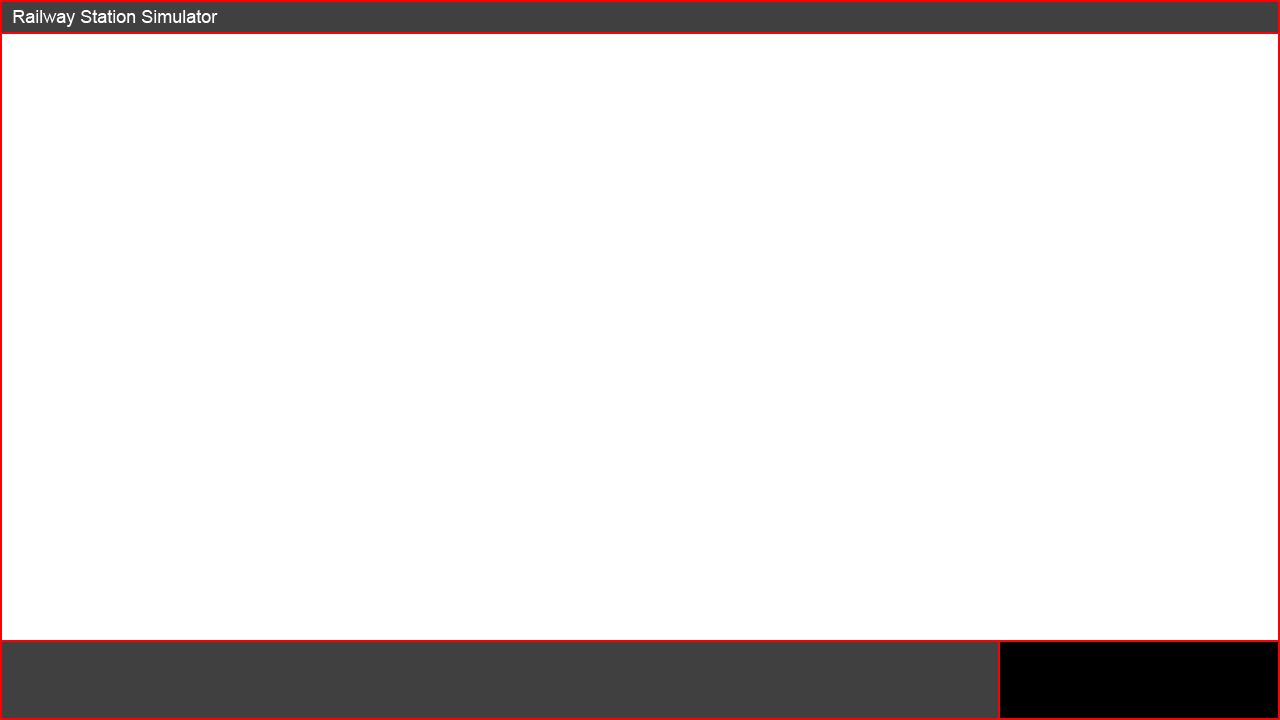
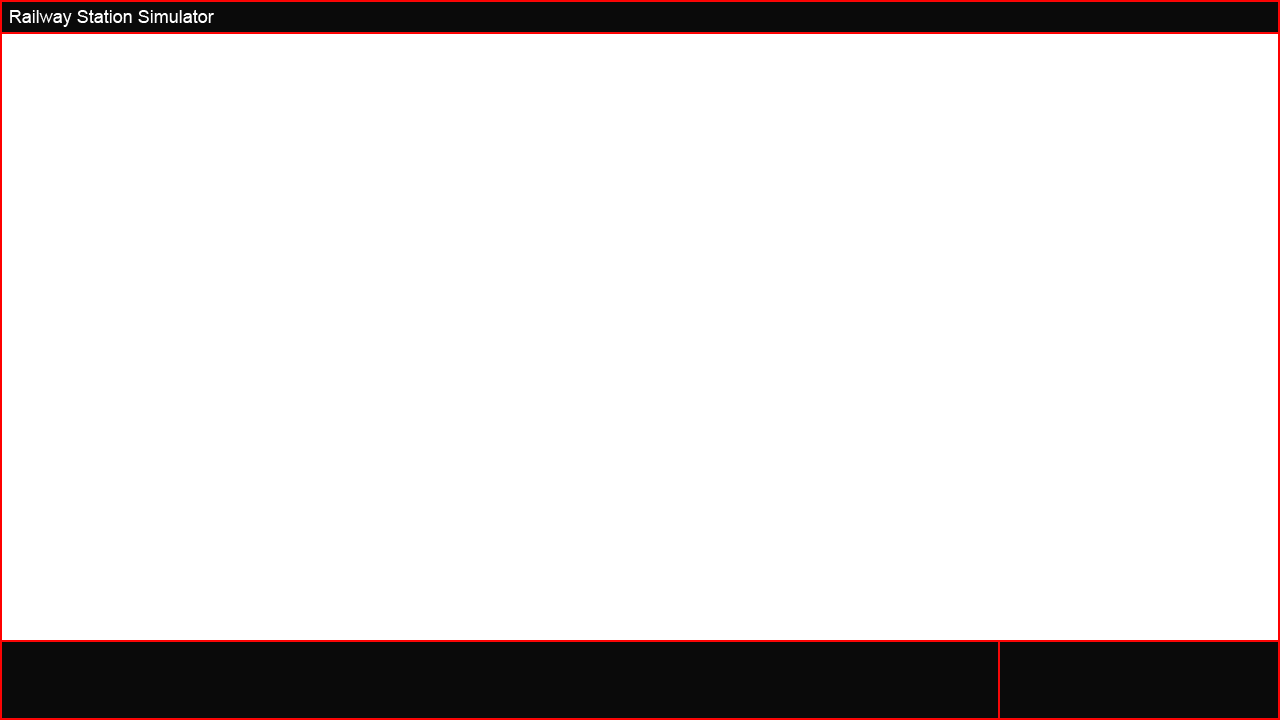
refactoring; artwork; added ingame money

Changed region(s): [[0.0, 0.8861, 0.7812, 1.0], [0.0, 0.0, 1.0, 0.0611]]

diff --git a/button.py b/button.py
@@ -5,12 +5,37 @@ import pyglet
 from game_object import GameObject
 
 
-def _allowed_to_be_drawn(fn):
-    def _handle_mouse_if_allowed_to_be_drawn(*args, **kwargs):
-        if args[0].allowed_to_be_drawn:
+def _button_is_visible(fn):
+    def _handle_mouse_if_is_visible(*args, **kwargs):
+        if args[0].is_visible:
             fn(*args, **kwargs)
 
-    return _handle_mouse_if_allowed_to_be_drawn
+    return _handle_mouse_if_is_visible
+
+
+def _left_button(fn):
+    def _handle_mouse_if_left_button_was_clicked(*args, **kwargs):
+        if args[3] == pyglet.window.mouse.LEFT:
+            fn(*args, **kwargs)
+
+    return _handle_mouse_if_left_button_was_clicked
+
+
+def _cursor_is_over_the_button(fn):
+    def _handle_if_cursor_is_over_the_button(*args, **kwargs):
+        if args[1] in range(args[0].position[0] + 2, args[0].position[0] + args[0].button_size[0] - 2) \
+                and args[2] in range(args[0].position[1] + 2, args[0].position[1] + args[0].button_size[1] - 2):
+            fn(*args, **kwargs)
+
+    return _handle_if_cursor_is_over_the_button
+
+
+def _button_is_pressed(fn):
+    def _handle_if_button_is_pressed(*args, **kwargs):
+        if args[0].state == 'pressed':
+            fn(*args, **kwargs)
+
+    return _handle_if_button_is_pressed
 
 
 class Button(GameObject):
@@ -21,8 +46,8 @@ class Button(GameObject):
         self.logger.debug('------- START INIT -------')
         self.draw_only_if_game_paused = draw_only_if_game_paused
         self.logger.debug('draw only if game paused set: {}'.format(self.draw_only_if_game_paused))
-        self.allowed_to_be_drawn = False
-        self.logger.debug('allowed_to_be_drawn set: {}'.format(self.allowed_to_be_drawn))
+        self.is_visible = False
+        self.logger.debug('allowed_to_be_drawn set: {}'.format(self.is_visible))
         self.state = 'normal'
         self.logger.debug('state set: {}'.format(self.state))
         self.position = position
@@ -36,6 +61,8 @@ class Button(GameObject):
         self.on_click = on_click
         self.on_click_actual = self.on_click[0]
         self.logger.debug('on click action set: {}'.format(self.on_click_actual))
+        pyglet.gl.glEnable(pyglet.gl.GL_BLEND)
+        pyglet.gl.glBlendFunc(pyglet.gl.GL_SRC_ALPHA, pyglet.gl.GL_ONE_MINUS_SRC_ALPHA)
         self.vertex_list \
             = batch.add(4, pyglet.gl.GL_QUADS, button_group,
                         ('v2i/static', (self.position[0],
@@ -46,7 +73,7 @@ class Button(GameObject):
                                         self.position[1] + self.button_size[1] - 1,
                                         self.position[0],
                                         self.position[1] + self.button_size[1] - 1)),
-                        ('c4B', (0, 0, 0, 255, 0, 0, 0, 255, 0, 0, 0, 255, 0, 0, 0, 255))
+                        ('c4B', (0, 0, 0, 0, 0, 0, 0, 0, 0, 0, 0, 0, 0, 0, 0, 0))
                         )
         self.border_sprite_image = pyglet.image.load('img/button_border_{}_{}.png'
                                                      .format(self.button_size[0], self.button_size[1]))
@@ -70,7 +97,7 @@ class Button(GameObject):
     def update(self, game_paused):
         self.logger.debug('------- START UPDATING -------')
         if not game_paused and self.draw_only_if_game_paused:
-            self.allowed_to_be_drawn = False
+            self.is_visible = False
             if self.vertex_list is not None:
                 self.vertex_list.delete()
                 self.vertex_list = None
@@ -83,7 +110,7 @@ class Button(GameObject):
             self.logger.debug('game is not paused and this button is drawn only if game paused')
             self.logger.debug('so hide the button')
         else:
-            self.allowed_to_be_drawn = True
+            self.is_visible = True
             if self.vertex_list is None:
                 self.vertex_list \
                     = self.batch.add(4, pyglet.gl.GL_QUADS, self.button_group,
@@ -96,7 +123,7 @@ class Button(GameObject):
                                        self.position[1] + self.button_size[1] - 1,
                                        self.position[0],
                                        self.position[1] + self.button_size[1] - 1)),
-                                     ('c4B', (0, 0, 0, 255, 0, 0, 0, 255, 0, 0, 0, 255, 0, 0, 0, 255))
+                                     ('c4B', (0, 0, 0, 0, 0, 0, 0, 0, 0, 0, 0, 0, 0, 0, 0, 0))
                                      )
 
             self.border_sprite.visible = True
@@ -116,55 +143,55 @@ class Button(GameObject):
         self.logger.debug('------- END UPDATING -------')
         self.logger.info('button updated')
 
-    @_allowed_to_be_drawn
+    @_button_is_visible
     def handle_mouse_motion(self, x, y, dx, dy):
         if x in range(self.position[0] + 2, self.position[0] + self.button_size[0] - 2) \
                 and y in range(self.position[1] + 2, self.position[1] + self.button_size[1] - 2):
             if self.state != 'pressed':
                 self.state = 'hover'
-                self.vertex_list.colors = (127, 0, 0, 255, 127, 0, 0, 255, 127, 0, 0, 255, 127, 0, 0, 255)
+                self.vertex_list.colors = (127, 0, 0, 127, 127, 0, 0, 127, 127, 0, 0, 127, 127, 0, 0, 127)
                 self.logger.info('cursor is on the button')
         else:
             if self.state != 'normal':
                 self.state = 'normal'
-                self.vertex_list.colors = (0, 0, 0, 255, 0, 0, 0, 255, 0, 0, 0, 255, 0, 0, 0, 255)
+                self.vertex_list.colors = (0, 0, 0, 0, 0, 0, 0, 0, 0, 0, 0, 0, 0, 0, 0, 0)
                 self.logger.debug('cursor is not on the button')
 
-    @_allowed_to_be_drawn
+    @_button_is_visible
+    @_cursor_is_over_the_button
+    @_left_button
     def handle_mouse_press(self, x, y, button, modifiers):
-        if x in range(self.position[0] + 2, self.position[0] + self.button_size[0] - 2) \
-                and y in range(self.position[1] + 2, self.position[1] + self.button_size[1] - 2) \
-                and button == pyglet.window.mouse.LEFT:
-            self.state = 'pressed'
-            self.vertex_list.colors = (191, 0, 0, 255, 191, 0, 0, 255, 191, 0, 0, 255, 191, 0, 0, 255)
-            self.logger.info('cursor is on the button and user holds mouse button')
+        self.state = 'pressed'
+        self.vertex_list.colors = (191, 0, 0, 127, 191, 0, 0, 127, 191, 0, 0, 127, 191, 0, 0, 127)
+        self.logger.info('cursor is on the button and user holds mouse button')
 
-    @_allowed_to_be_drawn
+    @_button_is_visible
+    @_button_is_pressed
+    @_left_button
     def handle_mouse_release(self, x, y, button, modifiers):
-        if self.state == 'pressed' and button == pyglet.window.mouse.LEFT:
-            self.state = 'hover'
-            self.vertex_list.colors = (127, 0, 0, 255, 127, 0, 0, 255, 127, 0, 0, 255, 127, 0, 0, 255)
-            self.logger.info('cursor is on the button and user released mouse button')
-            self.logger.info('start onclick action')
-            self.on_click_actual(self)
-            if self.on_click_actual == self.on_click[0] and len(self.on_click) == 2:
-                self.on_click_actual = self.on_click[1]
-                self.logger.info('button is switched to second action')
-            else:
-                self.on_click_actual = self.on_click[0]
-                self.logger.debug('button has only 1 action, so it remains the same')
+        self.state = 'hover'
+        self.vertex_list.colors = (127, 0, 0, 127, 127, 0, 0, 127, 127, 0, 0, 127, 127, 0, 0, 127)
+        self.logger.info('cursor is on the button and user released mouse button')
+        self.logger.info('start onclick action')
+        self.on_click_actual(self)
+        if self.on_click_actual == self.on_click[0] and len(self.on_click) == 2:
+            self.on_click_actual = self.on_click[1]
+            self.logger.info('button is switched to second action')
+        else:
+            self.on_click_actual = self.on_click[0]
+            self.logger.debug('button has only 1 action, so it remains the same')
 
-            if self.text_object_actual_text == self.text[0] and len(self.text) == 2:
-                self.text_object_actual_text = self.text[1]
-                self.text_object_actual.text = self.text[1]
-                self.logger.info('button is switched to second text')
-            else:
-                self.text_object_actual_text = self.text[0]
-                self.text_object_actual.text = self.text[0]
-                self.logger.debug('button has only 1 text, so it remains the same')
+        if self.text_object_actual_text == self.text[0] and len(self.text) == 2:
+            self.text_object_actual_text = self.text[1]
+            self.text_object_actual.text = self.text[1]
+            self.logger.info('button is switched to second text')
+        else:
+            self.text_object_actual_text = self.text[0]
+            self.text_object_actual.text = self.text[0]
+            self.logger.debug('button has only 1 text, so it remains the same')
 
-    @_allowed_to_be_drawn
+    @_button_is_visible
     def handle_mouse_leave(self, x, y):
         self.state = 'normal'
-        self.vertex_list.colors = (0, 0, 0, 255, 0, 0, 0, 255, 0, 0, 0, 255, 0, 0, 0, 255)
+        self.vertex_list.colors = (0, 0, 0, 0, 0, 0, 0, 0, 0, 0, 0, 0, 0, 0, 0, 0)
         self.logger.debug('cursor is not on the button')

diff --git a/game_progress.py b/game_progress.py
@@ -9,7 +9,7 @@ from game_object import GameObject
 
 def _maximum_level_not_reached(fn):
     def _add_exp_if_max_level_not_reached(*args, **kwargs):
-        if args[0].level < 100:
+        if args[0].level < args[0].c.maximum_level:
             fn(*args, **kwargs)
 
     return _add_exp_if_max_level_not_reached
@@ -30,13 +30,15 @@ class GameProgress(GameObject):
         self.config = configparser.RawConfigParser()
         self.unlocked_tracks = 4
         self.level = 0
-        self.exp = 0
-        self.accumulated_exp = 0
+        self.exp = 0.0
+        self.accumulated_exp = 0.0
+        self.money = 0.0
         self.percent = 0
         self.supported_carts = None
         self.main_map = main_map
         self.mini_map = mini_map
         self.tracks = None
+        pyglet.resource.add_font('perfo-bold.ttf')
         self.progress_bar_inactive_image = pyglet.image.load('img/progress_bar_inactive.png')
         self.progress_bar_inactive = pyglet.sprite.Sprite(self.progress_bar_inactive_image,
                                                           x=10, y=10, batch=batch, group=inactive_group)
@@ -45,9 +47,12 @@ class GameProgress(GameObject):
                                                         x=10, y=10, batch=batch, group=active_group)
         self.progress_bar_active.image = self.progress_bar_active_image.get_region(0, 0, 1, 10)
         self.read_state()
-        self.level_text = pyglet.text.Label('Level {}'.format(self.level), font_name=self.c.font_name,
-                                            font_size=self.c.level_font_size, x=110, y=40, anchor_x='center',
-                                            anchor_y='center', batch=batch, group=active_group)
+        self.level_text = pyglet.text.Label('LEVEL {}'.format(self.level), font_name='Perfo', bold=True,
+                                            font_size=self.c.level_font_size, x=110, y=40,
+                                            anchor_x='center', anchor_y='center', batch=batch, group=active_group)
+        self.money_text = pyglet.text.Label('{0:0>9} ¤'.format(int(self.money)), font_name='Perfo', bold=True,
+                                            color=(0, 192, 0, 255), font_size=self.c.level_font_size, x=360, y=40,
+                                            anchor_x='center', anchor_y='center', batch=batch, group=active_group)
 
     def read_state(self):
         if os.path.exists('user_cfg/game_progress.ini'):
@@ -61,6 +66,7 @@ class GameProgress(GameObject):
         self.level = self.config['user_data'].getint('level')
         self.exp = self.config['user_data'].getfloat('exp')
         self.accumulated_exp = self.config['user_data'].getfloat('accumulated_exp')
+        self.money = self.config['user_data'].getfloat('money')
         supported_carts_parsed = self.config['user_data']['supported_carts'].split(',')
         self.supported_carts = (int(supported_carts_parsed[0]), int(supported_carts_parsed[1]))
         self.update_exp_progress_sprite()
@@ -70,6 +76,7 @@ class GameProgress(GameObject):
         self.config['user_data']['level'] = str(self.level)
         self.config['user_data']['exp'] = str(self.exp)
         self.config['user_data']['accumulated_exp'] = str(self.accumulated_exp)
+        self.config['user_data']['money'] = str(self.money)
         self.config['user_data']['supported_carts'] = str(self.supported_carts[0]) + ',' + str(self.supported_carts[1])
 
         with open('user_cfg/game_progress.ini', 'w') as configfile:
@@ -88,19 +95,23 @@ class GameProgress(GameObject):
         self.accumulated_exp += exp
         self.update_exp_progress_sprite()
 
+    def add_money(self, money):
+        self.money += money
+        self.money_text.text = '{0:0>9} ¤'.format(int(self.money))
+
     @_maximum_level_not_reached
     @_level_up
     def update(self, game_paused):
         self.exp = self.accumulated_exp - self.c.accumulated_player_progress[self.level]
         self.level += 1
-        if self.level == 100:
+        if self.level == self.c.maximum_level:
             self.exp = 0.0
 
-        self.level_text.text = 'Level {}'.format(self.level)
+        self.level_text.text = 'LEVEL {}'.format(self.level)
         self.update_exp_progress_sprite()
 
     def update_exp_progress_sprite(self):
-        if self.level < 100:
+        if self.level < self.c.maximum_level:
             self.percent = int(self.exp / self.c.player_progress[self.level] * 100)
             if self.percent > 100:
                 self.percent = 100

diff --git a/game_config.py b/game_config.py
@@ -67,6 +67,7 @@ class GameConfig:
         self.pass_through_priority_tracks = ((2, 1), (1, 2))
         self.train_creation_timeout = (0, 0, 0, 0)
 
+        self.maximum_level = 100
         self.accumulated_player_progress = (0.0, 55.0, 275.0, 770.0, 1650.0, 3050.0, 5060.0, 7825.0, 11465.0, 16100.0,
                                             21850.0, 28890.0, 37290.0, 47235.0, 58855.0, 72355.0, 87795.0, 105390.0,
                                             125280.0, 147605.0, 172605.0, 200430.0, 231230.0, 265270.0, 302710.0,
@@ -94,6 +95,28 @@ class GameConfig:
                                 3875270.0, 4350544.0, 4876697.0, 5457952.0, 6102480.0, 6813012.0, 7598978.0, 8464893.0,
                                 9418742.0, 10470584.0, 11688300.0, 13394199.0, 14933072.0, 16613613.0, 18447312.0,
                                 20448750.0, 22631232.0, 25006212.0, 27596408.0, 30412503.0, 0.0)
+
+        self.frame_per_cart = (0, 24, 25, 26, 27, 28, 29, 30, 31, 32, 33, 35, 37, 39, 41, 43, 45, 47, 49, 51, 53, 56,
+                               59, 62, 65, 68, 71, 74, 77, 80, 83, 87, 91, 95, 99, 103, 107, 111, 115, 119, 123, 128,
+                               133, 138, 143, 148, 153, 158, 163, 168, 173, 179, 185, 191, 197, 203, 209, 215, 221, 227,
+                               233, 240, 247, 254, 261, 268, 275, 282, 289, 296, 303, 312, 321, 330, 339, 348, 357, 366,
+                               375, 384, 393, 406, 419, 432, 445, 458, 471, 484, 497, 510, 523, 542, 561, 580, 599, 618,
+                               637, 656, 675, 694, 720)
+        self.exp_per_cart = (0.0, 0.24, 0.25, 0.26, 0.27, 0.28, 0.29, 0.3, 0.31, 0.32, 0.33, 0.35, 0.37, 0.39, 0.41,
+                             0.43, 0.45, 0.47, 0.49, 0.51, 0.53, 0.56, 0.59, 0.62, 0.65, 0.68, 0.71, 0.74, 0.77, 0.8,
+                             0.83, 0.87, 0.91, 0.95, 0.99, 1.03, 1.07, 1.11, 1.15, 1.19, 1.23, 1.28, 1.33, 1.38, 1.43,
+                             1.48, 1.53, 1.58, 1.63, 1.68, 1.73, 1.79, 1.85, 1.91, 1.97, 2.03, 2.09, 2.15, 2.21, 2.27,
+                             2.33, 2.4, 2.47, 2.54, 2.61, 2.68, 2.75, 2.82, 2.89, 2.96, 3.03, 3.12, 3.21, 3.3, 3.39,
+                             3.48, 3.57, 3.66, 3.75, 3.84, 3.93, 4.06, 4.19, 4.32, 4.45, 4.58, 4.71, 4.84, 4.97, 5.1,
+                             5.23, 5.42, 5.61, 5.8, 5.99, 6.18, 6.37, 6.56, 6.75, 6.94, 7.2)
+        self.money_per_cart = (0.0, 0.12, 0.125, 0.13, 0.135, 0.14, 0.145, 0.15, 0.155, 0.16, 0.165, 0.175, 0.185,
+                               0.195, 0.205, 0.215, 0.225, 0.235, 0.245, 0.255, 0.265, 0.28, 0.295, 0.31, 0.325, 0.34,
+                               0.355, 0.37, 0.385, 0.4, 0.415, 0.435, 0.455, 0.475, 0.495, 0.515, 0.535, 0.555, 0.575,
+                               0.595, 0.615, 0.64, 0.665, 0.69, 0.715, 0.74, 0.765, 0.79, 0.815, 0.84, 0.865, 0.895,
+                               0.925, 0.955, 0.985, 1.015, 1.045, 1.075, 1.105, 1.135, 1.165, 1.2, 1.235, 1.27, 1.305,
+                               1.34, 1.375, 1.41, 1.445, 1.48, 1.515, 1.56, 1.605, 1.65, 1.695, 1.74, 1.785, 1.83,
+                               1.875, 1.92, 1.965, 2.03, 2.095, 2.16, 2.225, 2.29, 2.355, 2.42, 2.485, 2.55, 2.615,
+                               2.71, 2.805, 2.9, 2.995, 3.09, 3.185, 3.28, 3.375, 3.47, 3.6)
 
     def save_state(self):
         self.game_config['graphics']['screen_resolution'] = str(self.screen_resolution[0]) + ',' \

diff --git a/ingame_time.py b/ingame_time.py
@@ -25,9 +25,7 @@ class InGameTime(GameObject):
         self.epoch_timestamp = None
         self.day = None
         self.hour = None
-        self.hour_string = ''
         self.minute = None
-        self.minute_string = ''
         self.logger.debug('created text object for days counter')
         pyglet.resource.add_font('perfo-bold.ttf')
         self.read_state()
@@ -38,7 +36,7 @@ class InGameTime(GameObject):
                                           x=self.c.screen_resolution[0] - 181, y=57,
                                           anchor_x='center', anchor_y='center',
                                           batch=batch, group=day_text_group)
-        self.time_text = pyglet.text.Label(self.hour_string + ' : ' + self.minute_string,
+        self.time_text = pyglet.text.Label('{0:0>2}'.format(self.hour) + ' : ' + '{0:0>2}'.format(self.minute),
                                            font_name='Perfo', bold=True,
                                            font_size=self.c.day_font_size,
                                            color=self.c.day_text_color,
@@ -66,16 +64,6 @@ class InGameTime(GameObject):
         self.logger.debug('hour: {}'.format(self.hour))
         self.minute = ((self.epoch_timestamp % 345600) % 14400) // 240
         self.logger.debug('minute: {}'.format(self.minute))
-        if self.minute < 10:
-            self.minute_string = '0' + str(self.minute)
-        else:
-            self.minute_string = str(self.minute)
-
-        if self.hour < 10:
-            self.hour_string = '0' + str(self.hour)
-        else:
-            self.hour_string = str(self.hour)
-
         self.logger.debug('------- END READING STATE -------')
         self.logger.info('time state initialized')
 
@@ -95,7 +83,7 @@ class InGameTime(GameObject):
 
     def update_sprite(self, base_offset):
         if self.epoch_timestamp % 240 == 0:
-            self.time_text.text = self.hour_string + ' : ' + self.minute_string
+            self.time_text.text = '{0:0>2}'.format(self.hour) + ' : ' + '{0:0>2}'.format(self.minute)
 
     @_game_is_not_paused
     def update(self, game_paused):
@@ -106,20 +94,10 @@ class InGameTime(GameObject):
             if self.minute % 60 == 0:
                 self.minute = 0
 
-            if self.minute < 10:
-                self.minute_string = '0' + str(self.minute)
-            else:
-                self.minute_string = str(self.minute)
-
         if self.epoch_timestamp % 14400 == 0:
             self.hour += 1
             if self.hour % 24 == 0:
                 self.hour = 0
-
-            if self.hour < 10:
-                self.hour_string = '0' + str(self.hour)
-            else:
-                self.hour_string = str(self.hour)
 
         if self.epoch_timestamp % 345600 == 0:
             self.day += 1

diff --git a/dispatcher.py b/dispatcher.py
@@ -330,7 +330,8 @@ class Dispatcher(GameObject):
                         i.boarding_lights_sprite.visible = False
 
                     self.logger.info('train {} status changed to {}'.format(i.train_id, i.state))
-                    self.game_progress.add_exp(10.0)
+                    self.game_progress.add_exp(100.0)
+                    self.game_progress.add_money(256.0)
 
             if len(i.carts_position) > 0:
                 if i.carts_position[0] == i.train_route.destination_point_v2[i.carts]:

diff --git a/setup.py b/setup.py
@@ -40,7 +40,7 @@ os.environ['TCL_LIBRARY'] = r'{}\tcl\tcl8.6'.format(sys.exec_prefix)
 os.environ['TK_LIBRARY'] = r'{}\tcl\tk8.6'.format(sys.exec_prefix)
 
 setup(name='Railway Station Simulator',
-      version='0.8.6',
+      version='0.8.7',
       description='Railway Station Simulator',
       executables=executables,
       options=options)
